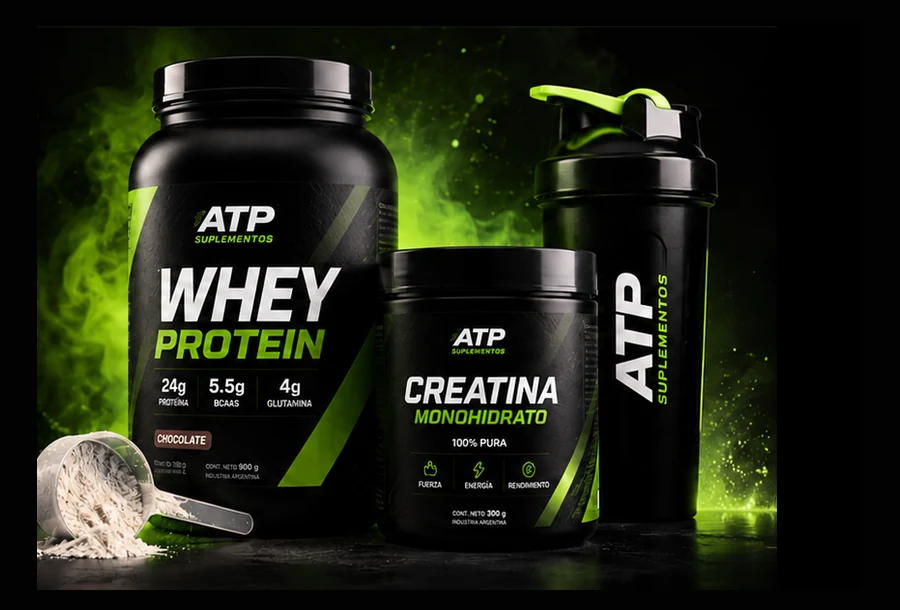
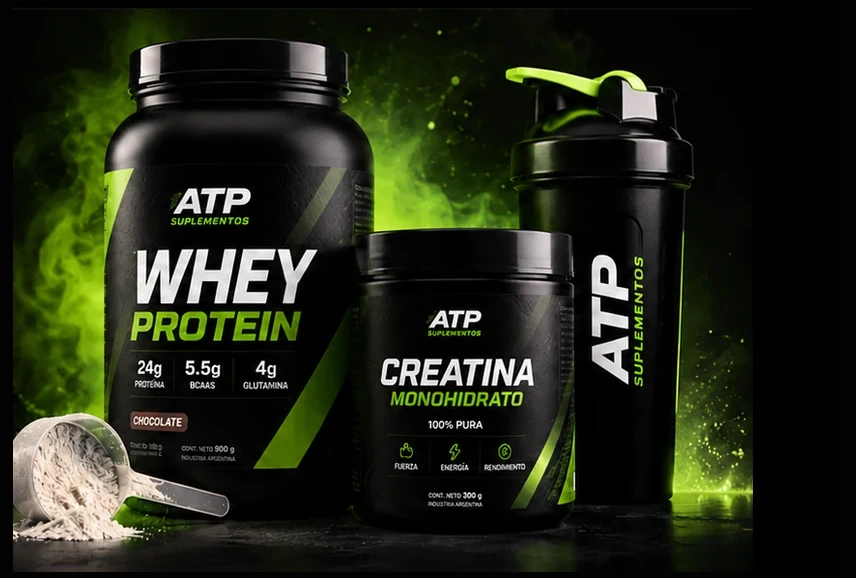
Add files via upload

diff --git a/store.css b/store.css
@@ -930,3 +930,57 @@ img{max-width:100%;height:auto}.product-image img{object-fit:contain;aspect-rati
   .hero h1 { font-size: clamp(36px, 10.5vw, 45px) !important; }
   .hero-content > span { font-size: 12px !important; }
 }
+
+/* ===== AJUSTE DEFINITIVO HERO: unión suave en PC + imagen grande en móvil ===== */
+@media (min-width: 761px) {
+  .hero {
+    min-height: clamp(520px, 37.5vw, 720px) !important;
+    padding: calc(var(--header) + 34px) clamp(42px, 4.7vw, 90px) 44px !important;
+    background-color: #020302 !important;
+    background-image: url('hero-atp-desktop.webp') !important;
+    background-repeat: no-repeat !important;
+    background-position: center top !important;
+    background-size: 100% auto !important;
+  }
+  .hero:after {
+    display: block !important;
+    inset: 0 !important;
+    background: linear-gradient(90deg,
+      #020302 0%,
+      rgba(2,3,2,.98) 27%,
+      rgba(2,3,2,.88) 39%,
+      rgba(2,3,2,.42) 52%,
+      rgba(2,3,2,.08) 66%,
+      transparent 76%) !important;
+    pointer-events: none !important;
+  }
+  .hero-content { position: relative !important; z-index: 2 !important; }
+}
+
+@media (max-width: 760px) {
+  .hero {
+    padding: 0 18px 32px !important;
+    background: #020302 !important;
+  }
+  .hero:before {
+    width: 100vw !important;
+    height: auto !important;
+    aspect-ratio: 856 / 578 !important;
+    max-height: none !important;
+    margin: 0 0 0 calc(50% - 50vw) !important;
+    background-image: url('hero-atp-mobile.webp') !important;
+    background-size: cover !important;
+    background-position: center center !important;
+    background-repeat: no-repeat !important;
+  }
+  .hero-content {
+    padding-top: 18px !important;
+  }
+}
+
+@media (max-width: 430px) {
+  .hero:before {
+    aspect-ratio: 856 / 600 !important;
+    background-size: cover !important;
+  }
+}
